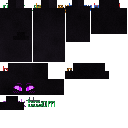
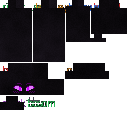
Move the bosom off left_leg's island, and stop relief reading as a hole
The dark spot was a UV collision, not a shading choice. The bosom's island sat
inside left_leg's -- 16x8 texels of it -- so every texel the bosom used was a
texel the leg also used. Shading the bosom dark stamped that patch onto the leg
too. Nothing on the sheet shows it; it only appears on the model.

Moved to (90, 34), the first free space that fits, and the island had to be
filled before repainting: pointing a cube at empty sheet leaves it with no paint
at all, which is how the bosom briefly vanished from the shading table entirely.

body_field now refuses to do this quietly. Two cubes may share an island only if
they are a mirrored pair; anything else warns by name. I had checked this when I
packed the rig and never re-checked after it came back re-UV'd in Blockbench,
which is exactly the gap.

The bosom was also the darkest thing on the model, because distance-from-core
makes whatever sits nearest the core darkest -- and that is backwards for
anything raised. A RELIEF set lifts those instead: 7.2 before, 14.2 now, between
the arms and the legs where a lit feature belongs.

Claude-Session: https://claude.ai/code/session_01SciLMdhV6QqrC51niQAHH7

Changed region(s): [[0.6875, 0.25, 0.8438, 0.3438]]

diff --git a/tools/mottle_skin.py b/tools/mottle_skin.py
@@ -248,7 +248,14 @@ def main():
 # Cubes that make up the core. Everything's brightness is measured as distance
 # from the centre of these, so the figure is dark where it is thickest and
 # lightens out towards the extremities.
-CORE = ("body1", "body2", "cube", "bosom", "neck")
+CORE = ("body1", "body2", "cube", "neck")
+
+# Pieces that sit PROUD of the body. Distance-from-core makes these the darkest
+# thing on the model, because they are nearest the core -- which is backwards:
+# a raised feature is what catches the light, not what hides from it. They are
+# lifted to RELIEF_FLOOR instead.
+RELIEF = ("bosom",)
+RELIEF_FLOOR = 0.62
 
 
 def _rotate(point, origin, degrees):
@@ -306,10 +313,38 @@ def _face_points(e):
     return out
 
 
+def check_islands(model):
+    """Two cubes may share an island only if they are a mirrored pair.
+
+    Anything else means one piece is painting over another: the bosom sat inside
+    left_leg's island for a while, so shading the bosom dark also stamped a dark
+    patch onto the leg. Silent, and only visible on the model.
+    """
+    boxes = []
+    for e in model["elements"]:
+        if not e.get("faces"):
+            continue
+        w, h, d = (e["to"][i] - e["from"][i] for i in range(3))
+        u, v = _uv_offset(e)
+        boxes.append((e["name"], u, v, u + 2 * (d + w), v + d + h))
+    clashes = []
+    for i, a in enumerate(boxes):
+        for b in boxes[i + 1:]:
+            if (a[1] < b[3] and b[1] < a[3] and a[2] < b[4] and b[2] < a[4]
+                    and (a[1], a[2]) != (b[1], b[2])):
+                clashes.append(f"{a[0]} and {b[0]}")
+    return clashes
+
+
 def body_field(rig_path):
     """A 0..1 value per texel: 0 at the body's core, 1 at the furthest point."""
     with open(rig_path) as f:
         model = json.load(f)
+    clashes = check_islands(model)
+    if clashes:
+        sys.stderr.write("WARNING: UV islands overlap and are not mirror pairs: "
+                         + "; ".join(clashes) + "\n"
+                         + "         shading one will paint over the other.\n")
     els = [e for e in model["elements"] if e.get("faces")]
 
     core = [e for e in els if e["name"] in CORE] or els
@@ -317,13 +352,20 @@ def body_field(rig_path):
     cy = sum((e["from"][1] + e["to"][1]) / 2 for e in core) / len(core)
     cz = sum((e["from"][2] + e["to"][2]) / 2 for e in core) / len(core)
 
-    field, far = {}, 0.0
+    field, far, relief = {}, 0.0, set()
     for e in els:
         for texel, (px, py, pz) in _face_points(e).items():
             dist = ((px - cx) ** 2 + (py - cy) ** 2 + (pz - cz) ** 2) ** 0.5
             field[texel] = dist
             far = max(far, dist)
-    return {k: v / far for k, v in field.items()} if far else field
+            if e["name"] in RELIEF:
+                relief.add(texel)
+    if not far:
+        return field
+    out = {k: v / far for k, v in field.items()}
+    for texel in relief:
+        out[texel] = max(out[texel], RELIEF_FLOOR)
+    return out
 
 if __name__ == "__main__":
     main()
